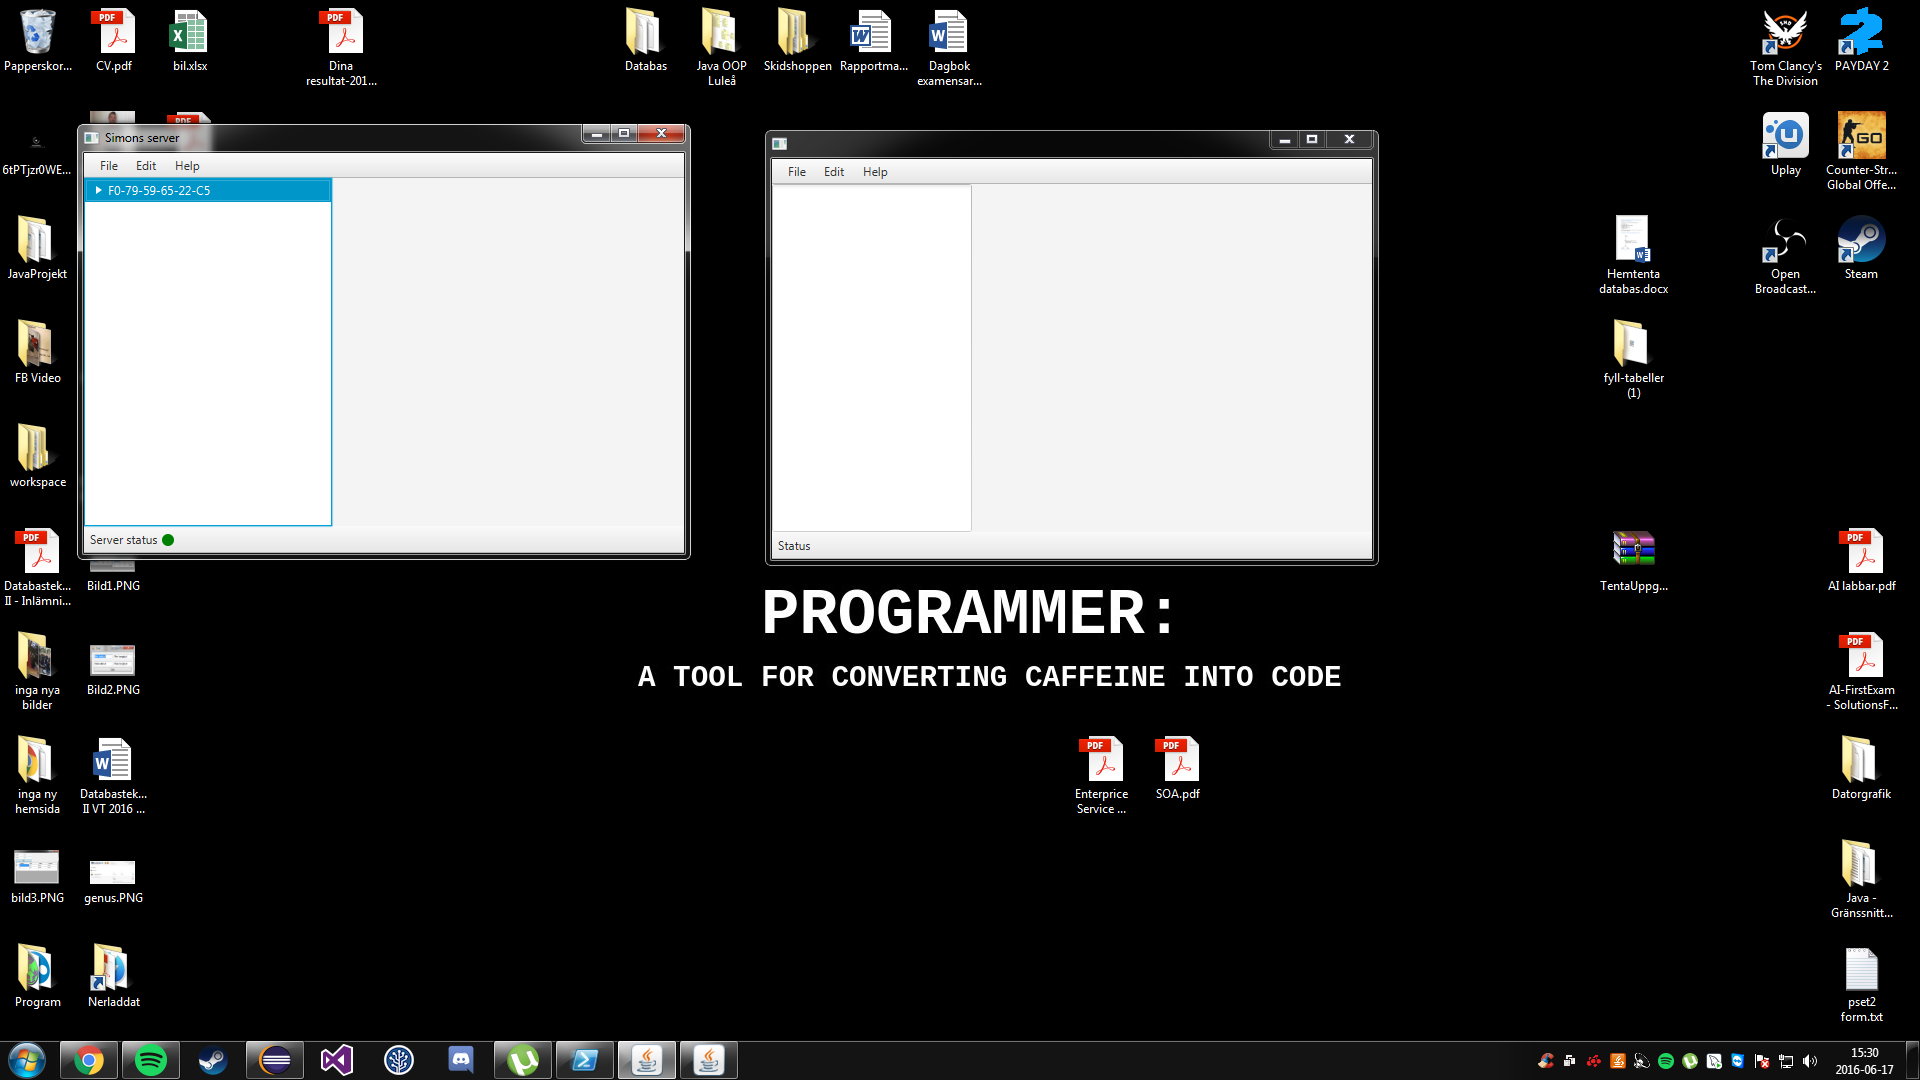
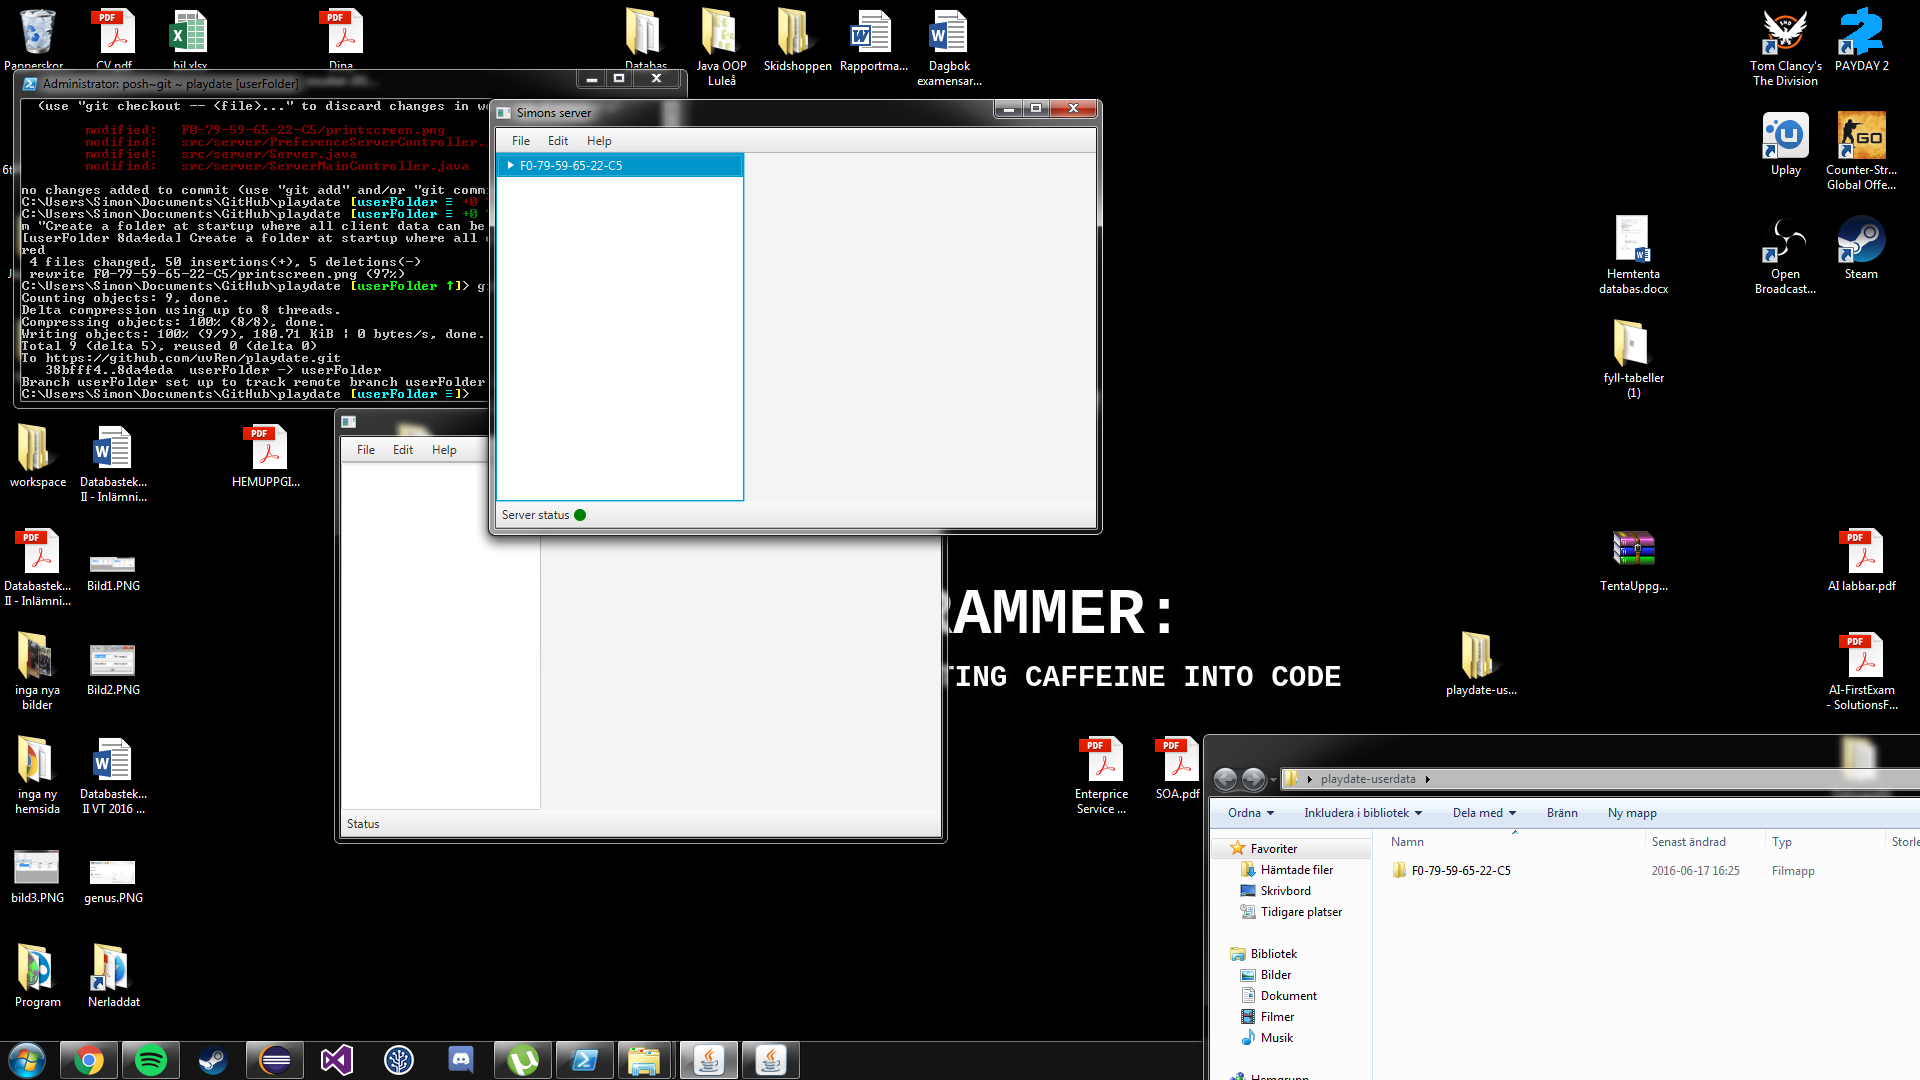
Printscreens are saved correctly

diff --git a/src/server/ClientThread.java b/src/server/ClientThread.java
@@ -147,10 +147,10 @@ public class ClientThread implements Runnable {
         	tries++;
         	
         	try {
-				ImageIO.write(bi, "png", new File(client.getMacaddress().getValue() + "/printscreen.png"));
+				ImageIO.write(bi, "png", new File(preference.get("userdatalocation", "") + "\\" + client.getMacaddress().getValue() +"/printscreen.png"));
 			} 
         	catch (Exception e) {
-        		new File(client.getMacaddress().getValue()).mkdir();
+        		new File(preference.get("userdatalocation", "") + "\\" + client.getMacaddress().getValue()).mkdir();
         	}	
         	
         	//If image also should be shown at screen
@@ -216,7 +216,6 @@ public class ClientThread implements Runnable {
 	private void createUserFolder(ClientUser client) {
 		//Check if Client already has a folder. If not, create one.
 		java.nio.file.Path path = Paths.get(preference.get("userdatalocation", "") + "/" + client.getMacaddress().getValue());
-		String absolutePath = path.toString();
 		
 		//Create folder if it doesn't exists
 		if(Files.notExists(path, LinkOption.NOFOLLOW_LINKS)) {
@@ -224,15 +223,16 @@ public class ClientThread implements Runnable {
 			//If 'userdatalocation' is default empty
 			if(preference.get("userdatalocation", "").equals("")) {
 				//If server is running on Windows
-				if(server.isWindows()) {
-					new File("playdate-userdata/" + absolutePath).mkdir();
+				if(Server.isWindows()) {
+					new File(Server.getDeafultSaveLocation() + client.getMacaddress().getValue()).mkdir();
 				}
 			}
 			//If it isn't empty
 			else {
-				new File("/" + absolutePath).mkdir();
+				new File(preference.get("userdatalocation", "") + "\\" + client.getMacaddress().getValue()).mkdir();
 			}
 		}
+		
 	}
 	
 	/**

diff --git a/src/server/Server.java b/src/server/Server.java
@@ -60,7 +60,7 @@ public class Server {
 	 */
 	public static String getDeafultSaveLocation() {
 		if(Server.isWindows())
-			return "C:\\Users\\" + ExternalFunctionality.getUsername() + "\\playdate";
+			return "C:\\Users\\" + ExternalFunctionality.getUsername() + "\\playdate\\";
 		else
 			return "";
 	}
